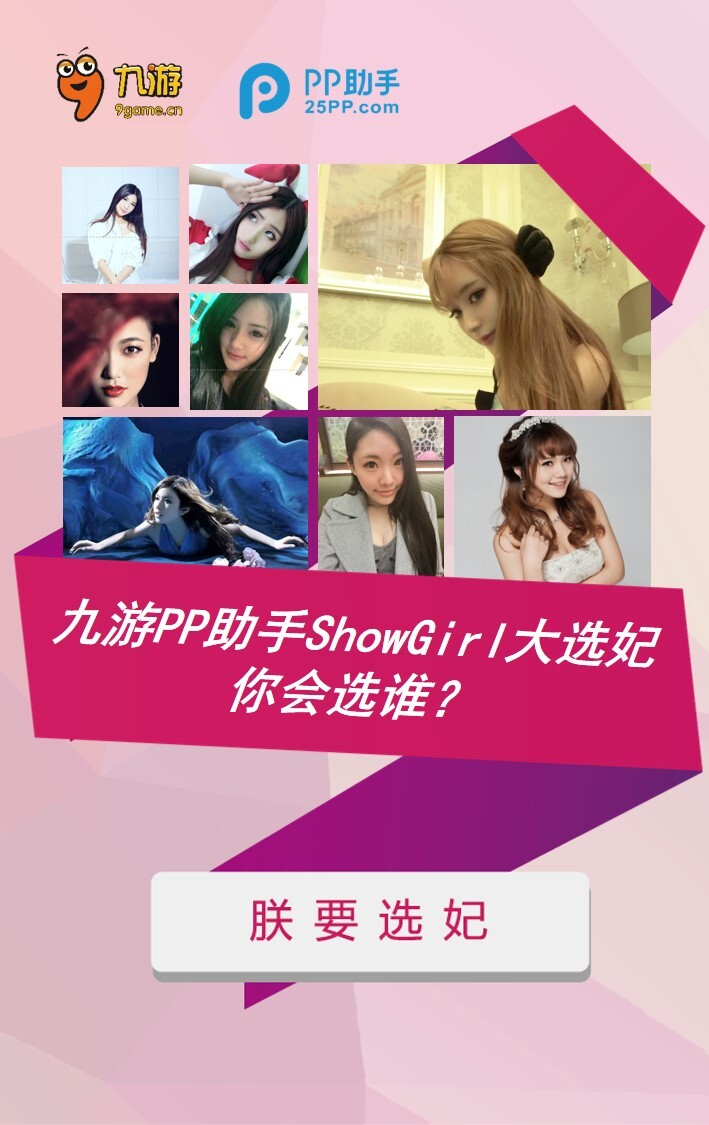
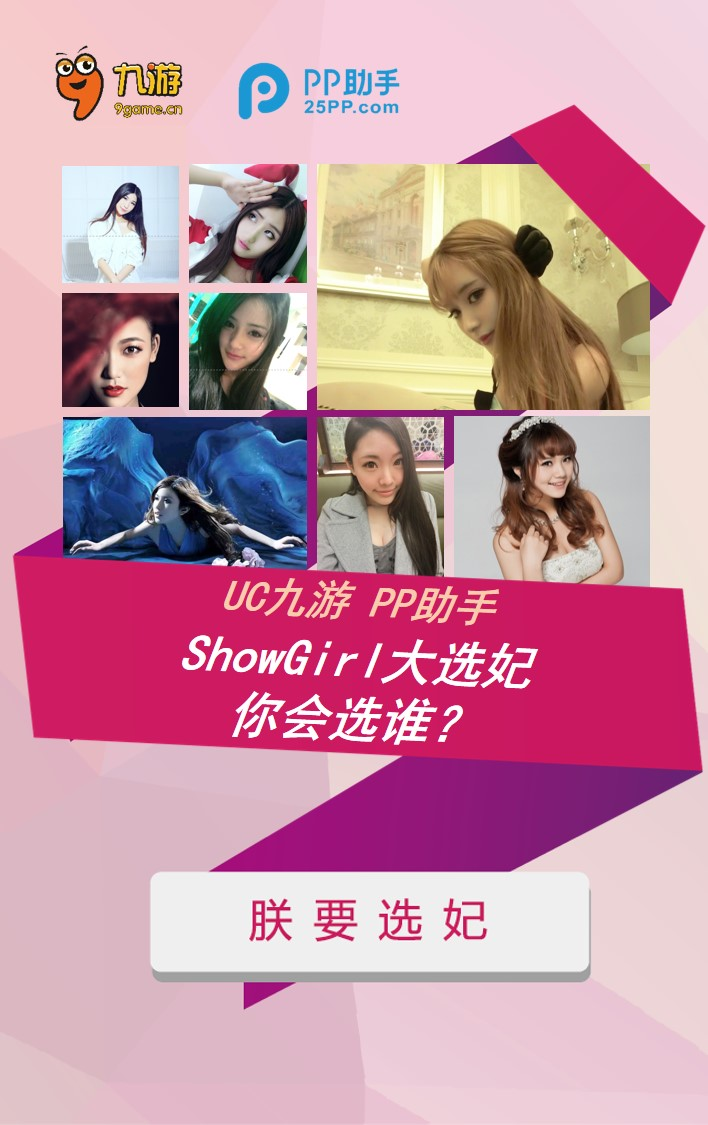
tune display text

diff --git a/sg/index.html b/sg/index.html
@@ -113,7 +113,7 @@ html,body{background-color:#F3C5CD;height:100%;margin:0;padding:0;width:100%;}
 						<div id="vs"></div>
 						<div id="hint1">
 							<div id="hintsub">
-								殿下，20位妹子已经恭候多时，奴才已经将她们分成10组，请殿下在每组两人之中选出一个
+								殿下，臣妾在Chinajoy N5馆UC展台恭候您。
 							</div>
 							<div id="suresub" onclick="message_hidden();">朕知道了，退下吧</div>
 						</div>
@@ -157,12 +157,12 @@ html,body{background-color:#F3C5CD;height:100%;margin:0;padding:0;width:100%;}
 				<div class="frame">
 					<div id="page4">
 						<div id="shareimg"><span>分享</span></div>
-						<div id="sharetext" align="center">分享给朋友，邀请他们参与showgirl大选妃吧，<br/>
+						<div id="sharetext" align="center">分享给朋友，邀请他们参与showgirl大选妃吧!<br/>
 							<div>
 								<a href="javascript:void(0)" onclick="rank();">查看Showgirl排名>></a>
 							</div>
 							关注微信公众号：UC_9game<br />
-							互动回复分享截屏，可立即获得九游精美礼品一份
+							互动回复分享截屏，可获得九游精美礼品一份
 							<div>
 								<a>点击下方还可再得一份奖品哦</a>
 							</div>
